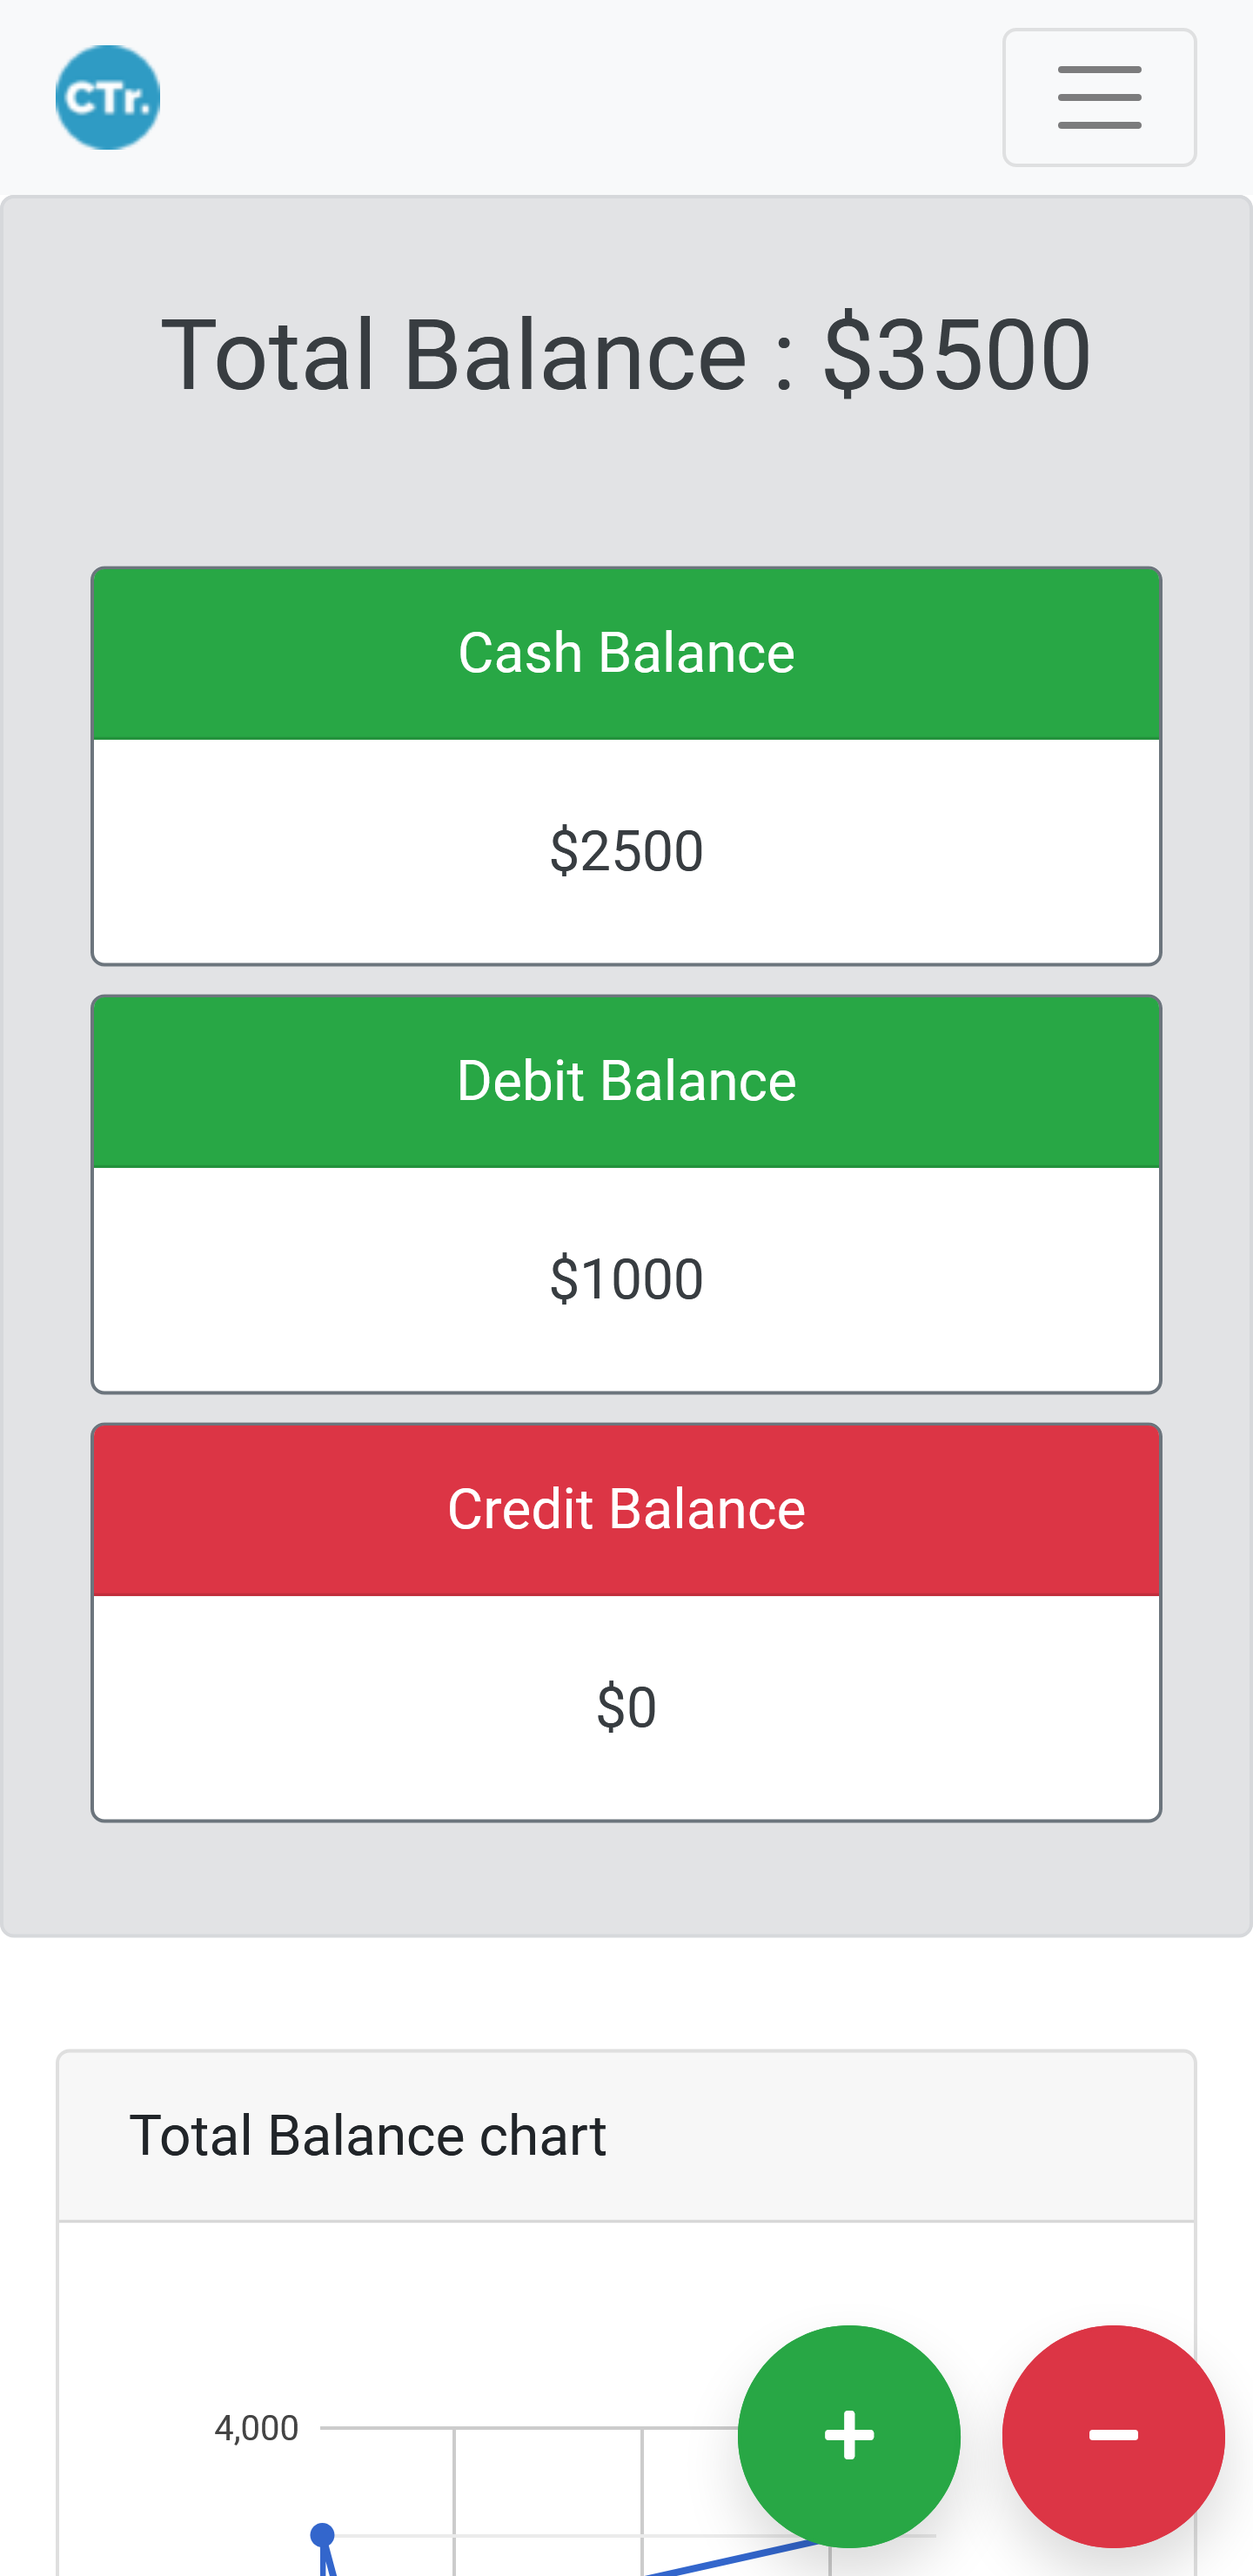
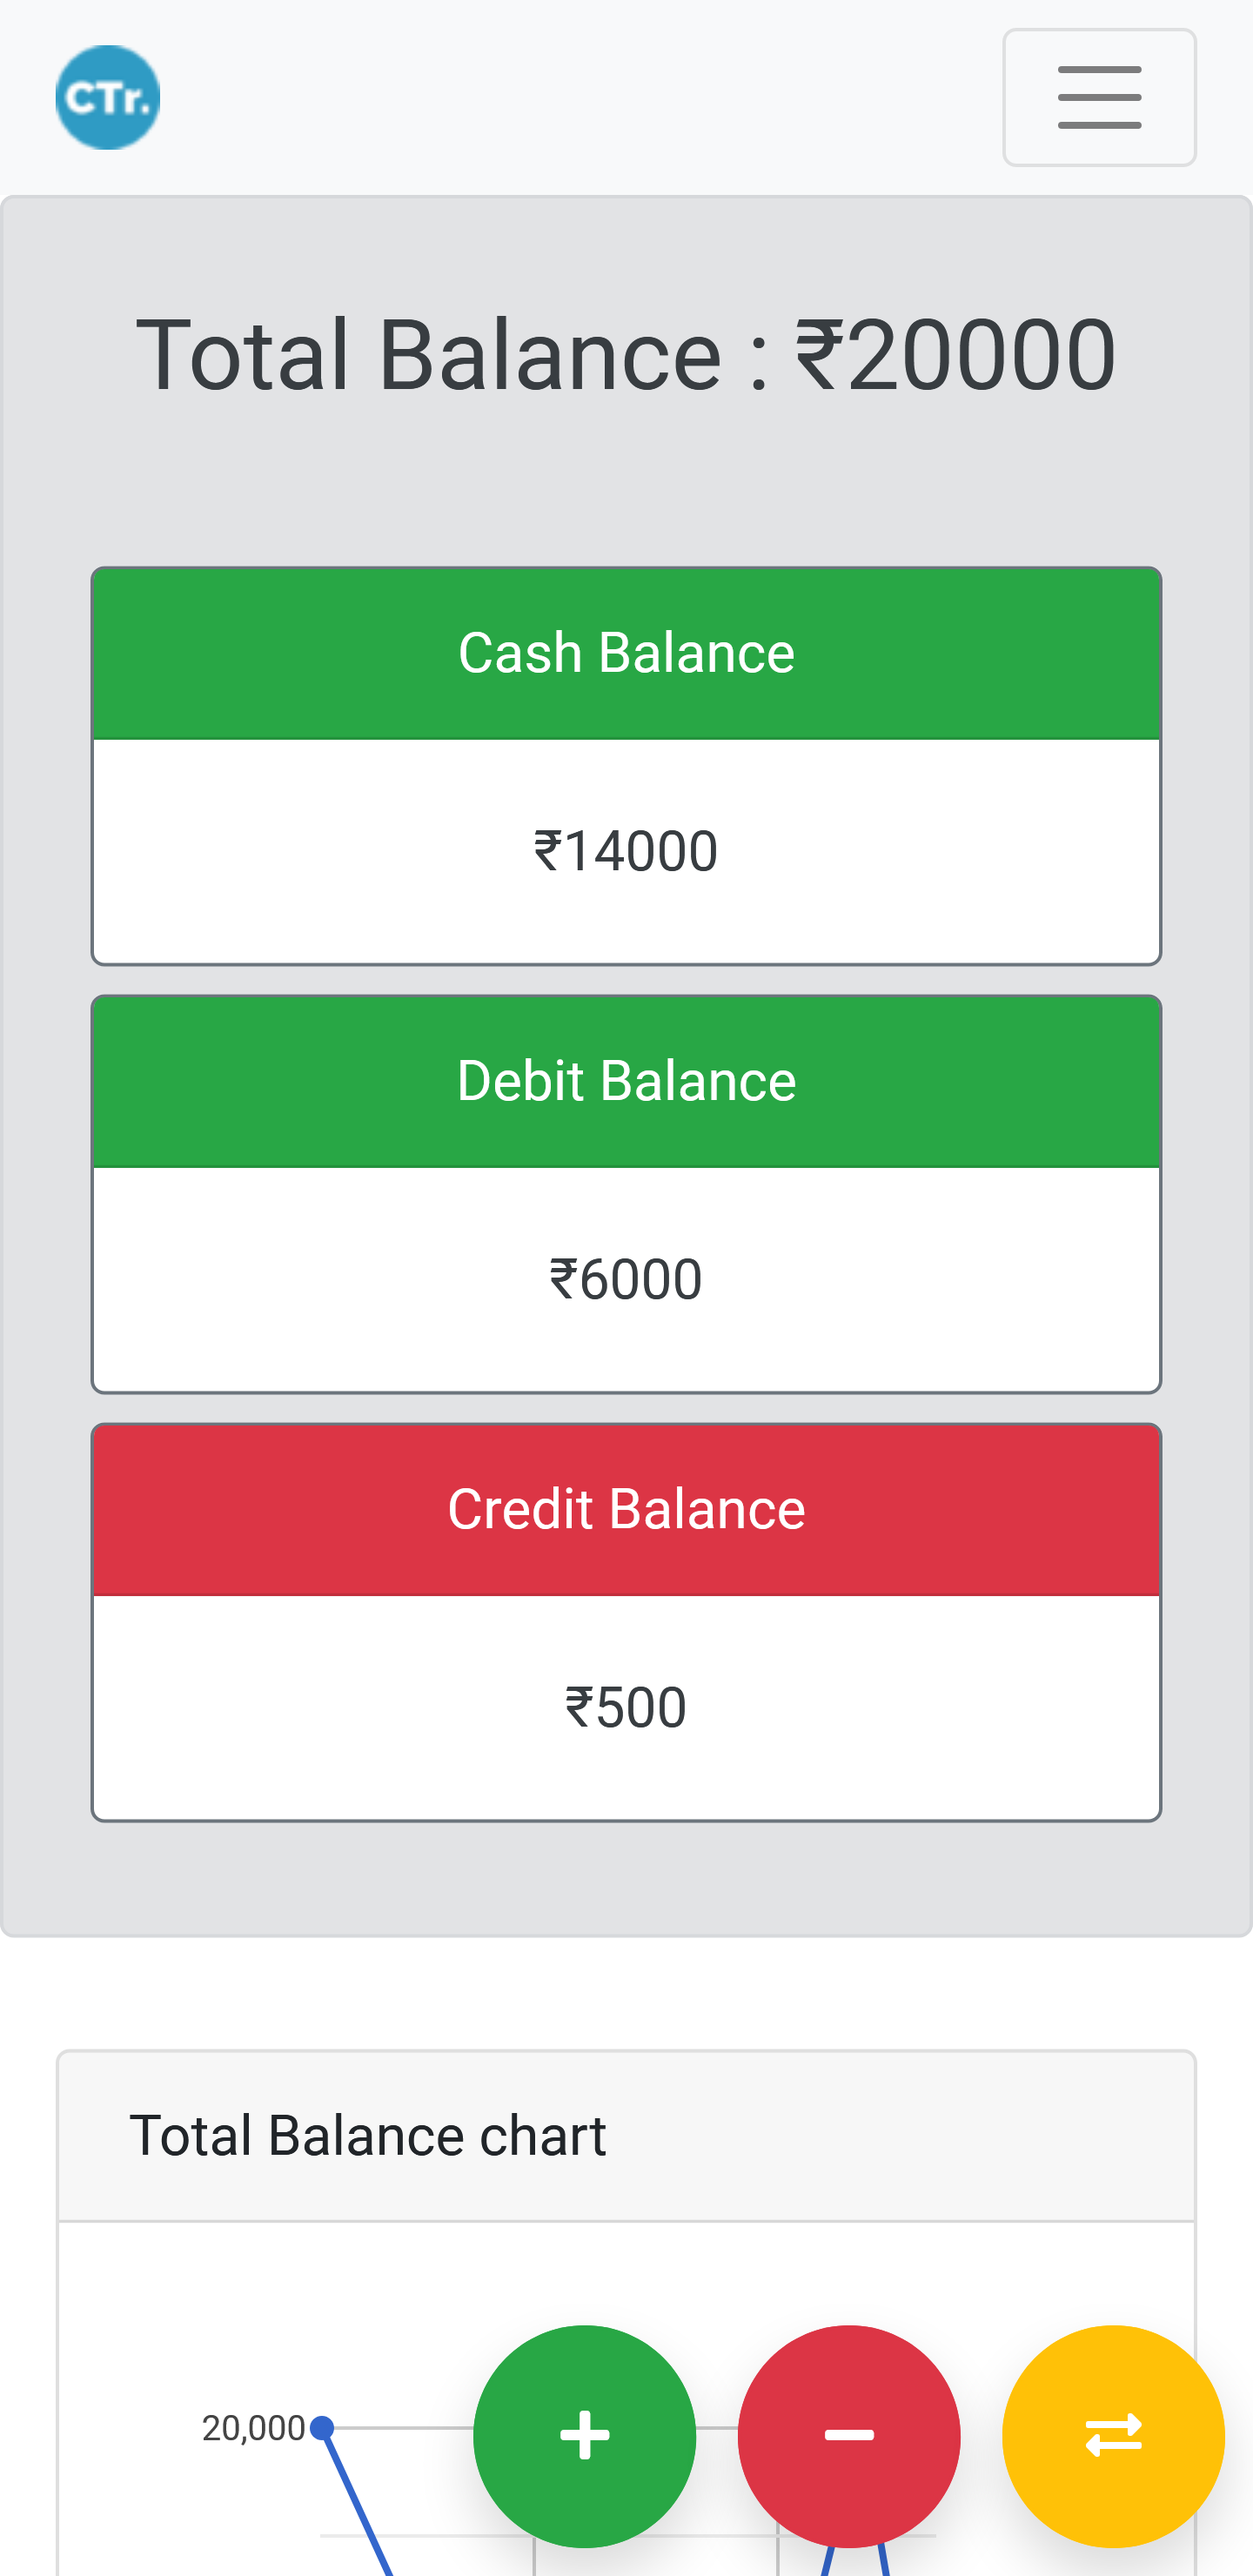
Updated Screenshots

diff --git a/README.md b/README.md
@@ -5,17 +5,18 @@ A Web app to help manage your budget and expenses.
 ### [Check Deployment here.](https://cashtrk.000webhostapp.com/)
 
 ## Features   
-* Login
+* Log in/Sign up
 * Keep multiple wallets
-* Add/Subtract balances
+* Add/Subtract/Transfer balances
 * Show graphical representation of balance
+* View, search, update and delete history.
 * modify account settings
 
 ## Tech Stack
 * HTML/CSS/JS for static pages
 * Bootstrap for easy to use components
-* JQuery for dialogs
-* PHP for backend and login
+* JQuery for modal dialogs
+* PHP for server side backend
 * Mysql database
 * Google Charts for graphs
 * 000webhost for deployment
@@ -25,13 +26,17 @@ A Web app to help manage your budget and expenses.
 * [Ashwin Cherukat](https://github.com/LegolasGreenleaf1999) - UI/UX/Frontend
 
 ## Screenshots
-Home Page            |  Log in Page 
+Home Page            |  About Page 
 :-------------------------:|:-------------------------:
-![](assets/screenshots/Home%20Page.png)  |  ![](assets/screenshots/Login%20Page.png)
-Sign Up Page            |  Dashboard Page 
-![](assets/screenshots/Sign%20Up%20Page.png)  |  ![](assets/screenshots/Dashboard.png)
+![](assets/screenshots/Home%20Page.png)  |  ![](assets/screenshots/About%20Us.png)
+Log in Page            |   Sign Up Page
+![](assets/screenshots/Login%20Page.png)  |  ![](assets/screenshots/Sign%20Up%20Page.png)
+FAQ page            |  Dashboard Page 
+![](assets/screenshots/FAQ.png)  |  ![](assets/screenshots/Dashboard.png)
 Add Balance Dialog            |  Subtract balance dialog
 ![](assets/screenshots/Add%20to%20Balance.png)  |  ![](assets/screenshots/Subtract%20from%20balance.png)
+Transfer Balance Dialog            |  Settings Page
+![](assets/screenshots/Transfer%20Balance.png)  |  ![](assets/screenshots/Settings.png)
 History Page            |  404 Page 
 ![](assets/screenshots/History.png)  |  ![](assets/screenshots/404.png)
 
@@ -63,6 +68,17 @@ Folder structure          |
 * Backend coding - Setup up add and subtract balance.
 * Backend coding - Setup up history page with search.
 * Front-end coding - Added 404 page.
+* Backend coding - Added password change functionality.
+* Backend coding - Added currency prefix change functionality.
+* Backend coding - Added reset data functionality.
+* Backend coding - Added reset account functionality.
+* Backend coding - Added transfer balance functionality.
+* Backend coding - Added update description functionality.
+* Front-end coding - Added about page.
+* Front-end coding - Added FAQ page.
+* Backend coding - Added undo transaction functionality.
+* Testing - Fixed search, balance, update description bugs.
+* Deployment - Deployed to 000webhost.
 
 
 ## License 
